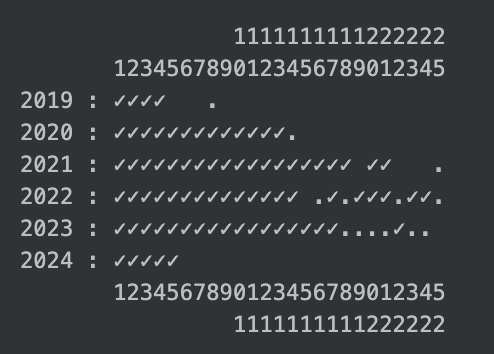
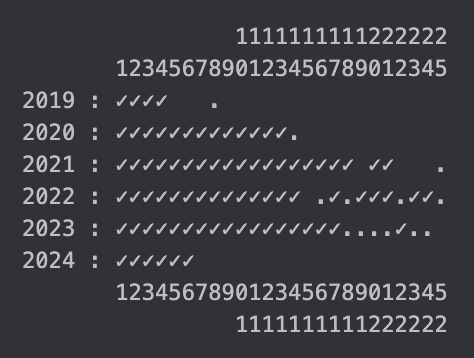
2024 Day 6.

diff --git a/src/main/java/com/simongarton/adventofcode/year2024/Year2024Day6.java b/src/main/java/com/simongarton/adventofcode/year2024/Year2024Day6.java
@@ -1,17 +1,28 @@
 package com.simongarton.adventofcode.year2024;
 
+import com.googlecode.lanterna.TextColor;
 import com.simongarton.adventofcode.AdventOfCodeChallenge;
 
 public class Year2024Day6 extends AdventOfCodeChallenge {
+
+    private static final String BREADCRUMB = "X";
+    private static final String OBSTRUCTION = "#";
+    private static final String NEW_OBSTRUCTION = "O";
+    private static final String OFF_THE_BOARD = "*";
+    private static final String EMPTY = ".";
+    private static final String UP = "^";
+    private static final String RIGHT = ">";
+    private static final String DOWN = "v";
+    private static final String LEFT = "<";
 
     private int guardX;
     private int guardY;
     private int guardDir; // 0 N, 1 E, 2 S, 3 W
 
-    private int timestamp = 0;
-
     private int width;
     private int height;
+
+    private final boolean DEBUG = true;
 
     private String map;
 
@@ -31,11 +42,18 @@ public class Year2024Day6 extends AdventOfCodeChallenge {
 
         this.setup(input);
 
+        if (this.DEBUG) {
+            this.setupLanternaForDemo();
+        }
+
         final int steps = this.solveMap();
 
-        this.printMap();
-
         return String.valueOf(steps);
+    }
+
+    private void setupLanternaForDemo() {
+
+        this.setUpLanterna(this.width + 1, this.height + 1);
     }
 
     private void setup(final String[] input) {
@@ -46,7 +64,7 @@ public class Year2024Day6 extends AdventOfCodeChallenge {
 
         for (int x = 0; x < this.width; x++) {
             for (int y = 0; y < this.height; y++) {
-                if (this.getMap(x, y).equalsIgnoreCase("^")) {
+                if (this.getMap(x, y).equalsIgnoreCase(UP)) {
                     this.guardX = x;
                     this.guardY = y;
                     this.guardDir = 0;
@@ -58,30 +76,42 @@ public class Year2024Day6 extends AdventOfCodeChallenge {
 
     private int solveMap() {
 
-        this.timestamp = 0;
+        int timestamp = 0;
 
         int xs = 1; // I start here
         while (true) {
-            this.timestamp = this.timestamp + 1;
-            if (this.timestamp > 10000) {
+            timestamp = timestamp + 1;
+
+            if (this.DEBUG) {
+                this.drawCurrentMap();
+                this.refreshAndSleep(100);
+            }
+
+            if (timestamp > 1000) {
+                if (this.DEBUG) {
+                    this.drawCurrentMap();
+                    this.refreshAndSleep(1000);
+                }
                 return -1;
             }
             final String next = this.getNextMap(this.guardX, this.guardY, this.guardDir);
-            if (next.equalsIgnoreCase("*")) {
+
+            if (next.equalsIgnoreCase(OFF_THE_BOARD)) {
                 // off the board
-                System.out.println("off the board at " + this.guardX + "," + this.guardY);
-                this.setMap(this.guardX, this.guardY, "X");
-                break;
+                if (this.DEBUG) {
+                    this.drawCurrentMap();
+                    this.refreshAndSleep(1000);
+                }
+                return xs;
             }
-            if (next.equalsIgnoreCase("#") || next.equalsIgnoreCase("O")) {
+            if (next.equalsIgnoreCase(OBSTRUCTION) || next.equalsIgnoreCase(NEW_OBSTRUCTION)) {
                 this.guardDir = (this.guardDir + 1) % 4;
                 continue;
             }
-            if (next.equalsIgnoreCase(".")) {
+            if (next.equalsIgnoreCase(EMPTY)) {
                 xs = xs + 1;
             }
-            this.setMap(this.guardX, this.guardY, "X");
-//            System.out.printf("%n%s%n%n", xs);
+            this.setMap(this.guardX, this.guardY, BREADCRUMB);
             switch (this.guardDir) {
                 case 0:
                     this.guardY = this.guardY - 1;
@@ -96,11 +126,23 @@ public class Year2024Day6 extends AdventOfCodeChallenge {
                     this.guardX = this.guardX - 1;
                     break;
             }
-            this.setMap(this.guardX, this.guardY, "^");
-//            this.printMap();
-
+            this.setMap(this.guardX, this.guardY, this.guardCharacter(this.guardDir));
         }
-        return xs;
+    }
+
+    private String guardCharacter(final int guardDir) {
+        switch (guardDir) {
+            case 0:
+                return UP;
+            case 1:
+                return RIGHT;
+            case 2:
+                return DOWN;
+            case 3:
+                return LEFT;
+            default:
+                return "@";
+        }
     }
 
     private void printMap() {
@@ -146,9 +188,15 @@ public class Year2024Day6 extends AdventOfCodeChallenge {
 
     private String getMap(final int x, final int y) {
 
+        if (x < 0 || x >= this.width) {
+            return OFF_THE_BOARD;
+        }
+        if (y < 0 || y >= this.height) {
+            return OFF_THE_BOARD;
+        }
         final int index = (y * this.width) + x;
         if (index < 0 || index >= (this.width * this.height)) {
-            return "*";
+            return OFF_THE_BOARD;
         }
         return this.map.charAt(index) + "";
     }
@@ -161,32 +209,93 @@ public class Year2024Day6 extends AdventOfCodeChallenge {
         final int cols = this.width;
         final int rows = this.height;
 
+        if (this.DEBUG) {
+            this.setupLanternaForDemo();
+        }
+
+        if (this.DEBUG) {
+            this.drawCurrentMap();
+            this.refreshAndSleep(1000);
+        }
+
         int blocks = 0;
 
         for (int y = 0; y < rows; y++) {
+            System.out.println(y);
             for (int x = 0; x < cols; x++) {
-
-                this.setup(input);
-
-                if (x == this.guardX && y == this.guardY) {
-                    // can't block starting position
-                    continue;
-                }
-                this.setMap(x, y, "O");
-
-                final int steps = this.solveMap();
-
-                if (steps == -1) {
-                    System.out.println("changing " + x + "," + y + "=" + steps);
-                    this.printMap();
-                    this.setup(input);
-                    this.setMap(x, y, "O");
-                    this.printMap();
-                    blocks++;
-                }
+                blocks += this.testVariation(x, y, input);
             }
         }
 
         return String.valueOf(blocks);
+    }
+
+    private int testVariation(final int x, final int y, final String[] input) {
+
+        int blocks = 0;
+
+        this.setup(input);
+
+        if (this.getMap(x, y).equalsIgnoreCase("#")) {
+            // already blocked
+            return blocks;
+        }
+
+        if (x == this.guardX && y == this.guardY) {
+            // can't block starting position
+            return blocks;
+        }
+        this.setMap(x, y, "O");
+
+        final int steps = this.solveMap();
+
+        if (steps == -1) {
+            if (this.DEBUG) {
+                System.out.println("changed " + x + "," + y + "=" + steps);
+                this.printMap();
+                this.setup(input);
+                this.setMap(x, y, NEW_OBSTRUCTION);
+                this.printMap();
+            }
+            blocks++;
+        }
+
+        return blocks;
+    }
+
+    private void drawCurrentMap() {
+
+        for (int i = 0; i < this.height; i++) {
+            final String line = this.map.substring(i * this.width, (i + 1) * this.width);
+            this.drawColoredString(line, 0, i, TextColor.ANSI.BLACK);
+        }
+
+        this.refreshAndSleep(0);
+    }
+
+    private void drawColoredString(final String s, final int x, final int y, final TextColor background) {
+
+        for (int i = 0; i < s.length(); i++) {
+            final TextColor foreground = this.textColor(s.charAt(i));
+            this.drawChar(s.charAt(i), x + i, y, foreground, background);
+        }
+    }
+
+    private TextColor textColor(final char c) {
+        switch (c) {
+            case '#':
+                return TextColor.ANSI.GREEN;
+            case 'O':
+                return TextColor.ANSI.RED_BRIGHT;
+            case 'X':
+                return TextColor.ANSI.BLUE_BRIGHT;
+            case '^':
+            case '>':
+            case 'v':
+            case '<':
+                return TextColor.ANSI.WHITE_BRIGHT;
+            default:
+                return TextColor.ANSI.BLACK_BRIGHT;
+        }
     }
 }

diff --git a/readme.md b/readme.md
@@ -9,6 +9,12 @@ on 1 Dec, and getting progressively harder - I rarely finish the last few days.
 
 ## 2024
 
+## Day 6: Guard Gallivant
+
+Excellent. A map with obstructions, and you have to map out where a guard walks, following certain rules. Part 2
+involved placing additional obstructions to try and get him to walk in an infinite loop. I came up with a brute force
+solution for this which took some minutes : I need to play around with optimisations.
+
 ## Day 5: Print Queue
 
 Excellent. A list of pairs of pages, where for A|B A must go before B in any combined list; and then a series of

diff --git a/progress.md b/progress.md
@@ -5,6 +5,6 @@
     2021 : ✓✓✓✓✓✓✓✓✓✓✓✓✓✓✓✓✓✓ ✓✓   .
     2022 : ✓✓✓✓✓✓✓✓✓✓✓✓✓✓ .✓.✓✓✓.✓✓.
     2023 : ✓✓✓✓✓✓✓✓✓✓✓✓✓✓✓✓✓....✓..
-    2024 : ✓✓✓✓✓
+    2024 : ✓✓✓✓✓✓
            1234567890123456789012345
                     1111111111222222
